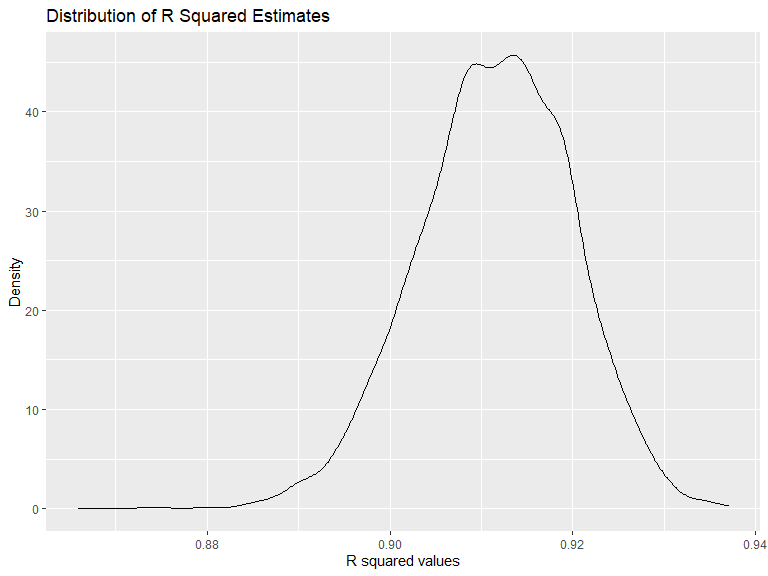
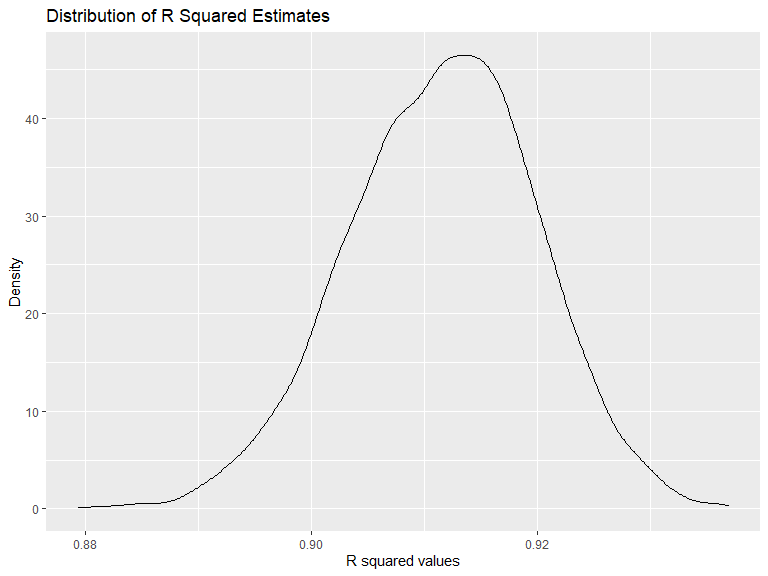
finished

diff --git a/p8105_hw6_jl6048.md b/p8105_hw6_jl6048.md
@@ -27,8 +27,10 @@ child_df =
     babysex = as.factor(babysex),
     frace = as.factor(frace),
     mrace = as.factor(mrace),
-    malform = as.factor(malform)
-  )
+    malform = as.factor(malform),
+    babysex = fct_recode(babysex, "male" = "1", "female" = "2"),
+    frace = fct_recode(frace, "white" = "1", "black" = "2", "asian" = "3", "puerto rican" = "4", "other" = "8", "unknown" = "9"),
+    mrace = fct_recode(mrace, "white" = "1", "black" = "2", "asian" = "3","puerto rican" = "4", "other" = "8", "unknown" = "9"))
 ```
 
     ## Rows: 4342 Columns: 20
@@ -107,14 +109,36 @@ Compare your model to two others:
 
 ``` r
 # One using length at birth and gestational age as predictors (main effects only)
-model_2 = lm(bwt ~ blength + gaweeks, data = child_df) %>%
-  broom::glance()
-
-
-#One using head circumference, length, sex, and all interactions (including the three-way interaction) between these
-model_3 = lm(bwt ~bhead + blength + babysex + bhead*blength + bhead*babysex + blength*babysex + bhead*blength*babysex , data = child_df) %>%
-  broom::glance()
+model_2 = lm(bwt ~ blength + gaweeks, data = child_df)
+summary(model_2) %>% 
+  broom::tidy()
 ```
+
+    ## # A tibble: 3 x 5
+    ##   term        estimate std.error statistic  p.value
+    ##   <chr>          <dbl>     <dbl>     <dbl>    <dbl>
+    ## 1 (Intercept)  -4348.      98.0      -44.4 0       
+    ## 2 blength        129.       1.99      64.6 0       
+    ## 3 gaweeks         27.0      1.72      15.7 2.36e-54
+
+``` r
+#One using head circumference, length, sex, and all interactions (including the three-way interaction) between these
+model_3 = lm(bwt ~bhead + blength + babysex + bhead*blength + bhead*babysex + blength*babysex + bhead*blength*babysex , data = child_df) 
+summary(model_3) %>% 
+  broom::tidy()
+```
+
+    ## # A tibble: 8 x 5
+    ##   term                         estimate std.error statistic      p.value
+    ##   <chr>                           <dbl>     <dbl>     <dbl>        <dbl>
+    ## 1 (Intercept)                 -7177.     1265.       -5.67  0.0000000149
+    ## 2 bhead                         182.       38.1       4.78  0.00000184  
+    ## 3 blength                       102.       26.2       3.90  0.0000992   
+    ## 4 babysexfemale                6375.     1678.        3.80  0.000147    
+    ## 5 bhead:blength                  -0.554     0.780    -0.710 0.478       
+    ## 6 bhead:babysexfemale          -198.       51.1      -3.88  0.000105    
+    ## 7 blength:babysexfemale        -124.       35.1      -3.52  0.000429    
+    ## 8 bhead:blength:babysexfemale     3.88      1.06      3.67  0.000245
 
 Make this comparison in terms of the cross-validated prediction error:
 
@@ -124,23 +148,7 @@ cv_data =
   mutate(
     train = map(train, as_tibble),
     test = map(test, as_tibble))
-cv_data 
 ```
-
-    ## # A tibble: 100 x 3
-    ##    train                 test                .id  
-    ##    <list>                <list>              <chr>
-    ##  1 <tibble [3,473 x 20]> <tibble [869 x 20]> 001  
-    ##  2 <tibble [3,473 x 20]> <tibble [869 x 20]> 002  
-    ##  3 <tibble [3,473 x 20]> <tibble [869 x 20]> 003  
-    ##  4 <tibble [3,473 x 20]> <tibble [869 x 20]> 004  
-    ##  5 <tibble [3,473 x 20]> <tibble [869 x 20]> 005  
-    ##  6 <tibble [3,473 x 20]> <tibble [869 x 20]> 006  
-    ##  7 <tibble [3,473 x 20]> <tibble [869 x 20]> 007  
-    ##  8 <tibble [3,473 x 20]> <tibble [869 x 20]> 008  
-    ##  9 <tibble [3,473 x 20]> <tibble [869 x 20]> 009  
-    ## 10 <tibble [3,473 x 20]> <tibble [869 x 20]> 010  
-    ## # ... with 90 more rows
 
 ``` r
 cv_data = 
@@ -161,23 +169,7 @@ cv_data =
       map2_dbl(model_2, test, ~rmse(model = .x, data = .y)),
     rmse_model_3 =
       map2_dbl(model_3, test, ~rmse(model = .x, data = .y)))
-cv_data
 ```
-
-    ## # A tibble: 100 x 9
-    ##    train                 test  .id   model_1 model_2 model_3 rmse_model_1 rmse_model_2
-    ##    <list>                <lis> <chr> <list>  <list>  <list>         <dbl>        <dbl>
-    ##  1 <tibble [3,473 x 20]> <tib~ 001   <lm>    <lm>    <lm>            460.         339.
-    ##  2 <tibble [3,473 x 20]> <tib~ 002   <lm>    <lm>    <lm>            479.         339.
-    ##  3 <tibble [3,473 x 20]> <tib~ 003   <lm>    <lm>    <lm>            482.         365.
-    ##  4 <tibble [3,473 x 20]> <tib~ 004   <lm>    <lm>    <lm>            484.         320.
-    ##  5 <tibble [3,473 x 20]> <tib~ 005   <lm>    <lm>    <lm>            453.         318.
-    ##  6 <tibble [3,473 x 20]> <tib~ 006   <lm>    <lm>    <lm>            472.         330.
-    ##  7 <tibble [3,473 x 20]> <tib~ 007   <lm>    <lm>    <lm>            473.         340.
-    ##  8 <tibble [3,473 x 20]> <tib~ 008   <lm>    <lm>    <lm>            456.         350.
-    ##  9 <tibble [3,473 x 20]> <tib~ 009   <lm>    <lm>    <lm>            481.         338.
-    ## 10 <tibble [3,473 x 20]> <tib~ 010   <lm>    <lm>    <lm>            464.         317.
-    ## # ... with 90 more rows, and 1 more variable: rmse_model_3 <dbl>
 
 ``` r
 cv_data %>% 
@@ -268,16 +260,16 @@ bootstrap_r
     ## # A tibble: 5,000 x 13
     ##    .id   r.squared adj.r.squared sigma statistic   p.value    df logLik   AIC
     ##    <chr>     <dbl>         <dbl> <dbl>     <dbl>     <dbl> <dbl>  <dbl> <dbl>
-    ##  1 0001      0.925         0.925  2.87     4503. 1.10e-206     1  -901. 1809.
-    ##  2 0002      0.916         0.916  2.84     3950. 3.56e-197     1  -898. 1803.
-    ##  3 0003      0.915         0.915  2.86     3900. 2.92e-196     1  -900. 1806.
-    ##  4 0004      0.906         0.906  3.03     3510. 1.08e-188     1  -922. 1849.
-    ##  5 0005      0.918         0.918  2.90     4056. 4.39e-199     1  -905. 1816.
-    ##  6 0006      0.919         0.919  2.98     4141. 1.34e-200     1  -915. 1837.
-    ##  7 0007      0.910         0.910  2.99     3663. 9.77e-192     1  -917. 1840.
-    ##  8 0008      0.909         0.909  2.98     3618. 7.26e-191     1  -915. 1836.
-    ##  9 0009      0.912         0.912  2.92     3768. 9.08e-194     1  -908. 1821.
-    ## 10 0010      0.921         0.921  2.82     4223. 5.19e-202     1  -895. 1795.
+    ##  1 0001      0.911         0.911  3.00     3706. 1.38e-192     1  -918. 1841.
+    ##  2 0002      0.903         0.903  2.96     3391. 3.18e-186     1  -913. 1833.
+    ##  3 0003      0.903         0.902  3.06     3363. 1.22e-185     1  -926. 1857.
+    ##  4 0004      0.910         0.910  3.11     3661. 1.04e-191     1  -931. 1868.
+    ##  5 0005      0.920         0.920  2.80     4178. 3.10e-201     1  -893. 1791.
+    ##  6 0006      0.921         0.921  2.89     4249. 1.88e-202     1  -904. 1815.
+    ##  7 0007      0.926         0.926  2.65     4557. 1.48e-207     1  -873. 1752.
+    ##  8 0008      0.907         0.907  2.83     3537. 3.07e-189     1  -897. 1800.
+    ##  9 0009      0.907         0.906  3.00     3521. 6.56e-189     1  -918. 1842.
+    ## 10 0010      0.908         0.908  2.93     3594. 2.20e-190     1  -910. 1826.
     ## # ... with 4,990 more rows, and 4 more variables: BIC <dbl>, deviance <dbl>,
     ## #   df.residual <int>, nobs <int>
 
@@ -319,16 +311,16 @@ bootstrap_log
     ## # A tibble: 5,000 x 4
     ##    id    intercept  tmin beta_log
     ##    <chr>     <dbl> <dbl>    <dbl>
-    ##  1 0001       7.27  1.04     2.02
-    ##  2 0002       7.01  1.06     2.00
-    ##  3 0003       7.02  1.05     1.99
-    ##  4 0004       7.27  1.03     2.02
-    ##  5 0005       7.70  1.03     2.07
-    ##  6 0006       6.95  1.05     1.98
-    ##  7 0007       7.51  1.02     2.04
-    ##  8 0008       7.19  1.05     2.02
-    ##  9 0009       7.29  1.03     2.02
-    ## 10 0010       7.42  1.03     2.03
+    ##  1 0001       7.10  1.04     2.00
+    ##  2 0002       7.53  1.02     2.04
+    ##  3 0003       6.82  1.07     1.98
+    ##  4 0004       7.14  1.05     2.02
+    ##  5 0005       7.55  1.03     2.05
+    ##  6 0006       7.20  1.04     2.01
+    ##  7 0007       7.35  1.02     2.01
+    ##  8 0008       7.28  1.04     2.02
+    ##  9 0009       7.77  1.01     2.06
+    ## 10 0010       6.82  1.06     1.97
     ## # ... with 4,990 more rows
 
 ``` r
@@ -360,7 +352,7 @@ bootstrap_r %>%
 
 | CI\_lower\_r | CI\_upper\_r |
 |-------------:|-------------:|
-|        0.894 |        0.927 |
+|        0.895 |        0.927 |
 
 ``` r
 bootstrap_log %>% 
@@ -373,4 +365,4 @@ bootstrap_log %>%
 
 | CI\_lower\_log | CI\_upper\_log |
 |---------------:|---------------:|
-|          1.965 |          2.059 |
+|          1.965 |          2.058 |
